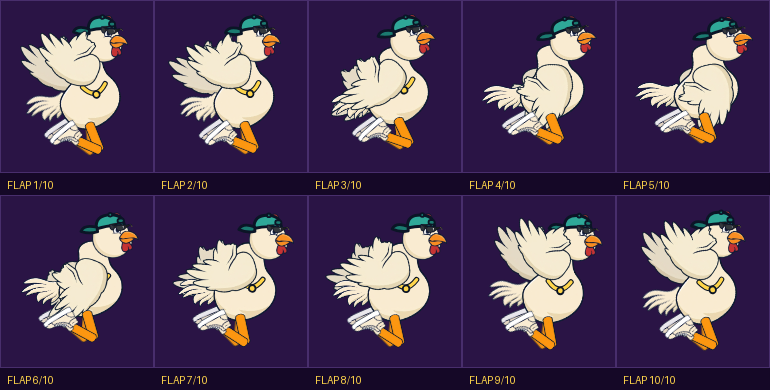
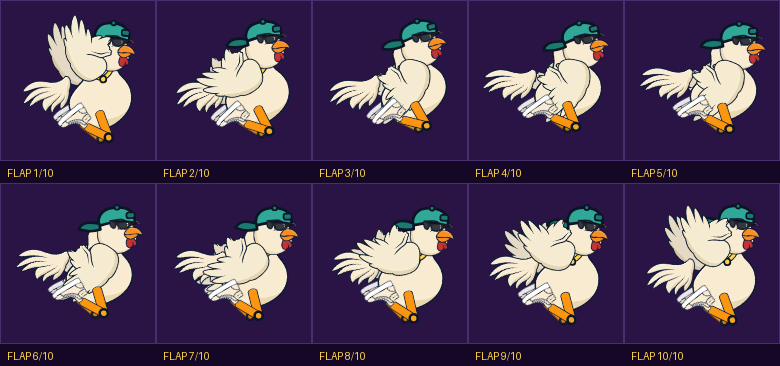
Fit the parts to the rig by measurement instead of by eye
Adds ?align=1, which draws the skeleton underneath in flat magenta with the
painted parts over it at 70% opacity, so a misfit is visible rather than guessed.

That exposed the deeper problem: art was being moved to chase a rig whose numbers
were also invented. So the relationship is inverted - landmarks are measured out
of the part images and the rig is derived from them. The head pivot is now the
art's own skull centre, the wing pivot its shoulder, the tail pivot its root, the
shoe pivot its ankle, and bodyRX/bodyRY are half the body art. Rig and art now
coincide by construction, and hats no longer need a fudge offset.

The wing's natural angle measured -0.445, not the -0.65 that had been eyeballed,
which was skewing every wing pose.

Also: bigger head to match the reference proportions, and knee caps to close the
notch where the two leg tubes meet.

Claude-Session: https://claude.ai/code/session_01GPMrTdwpCZtjDF6U8tWZ25

diff --git a/index.html b/index.html
@@ -418,13 +418,13 @@ function musicVol(v){ if(A.started) A.musicGain.gain.setTargetAtTime(v, A.ctx.cu
    Local space: origin = body core, +x forward, +y down.
    ============================================================ */
 const CK = {
-  bodyRX:52, bodyRY:40,          // fallback shape only; the part carries the real body
-  bodyTilt:-0.13,
-  headX:40, headY:-96, headR:23,
-  wingX:12, wingY:-46, wingA:84, wingB:70,
-  hipX:-10, hipY:30,
+  bodyRX:58, bodyRY:71,          // = half the body art, so rig and art coincide
+  bodyTilt:0,
+  headX:36, headY:-64, headR:32, // headR = the art's own skull radius (w = 2R/0.4108)
+  wingX:10, wingY:-30, wingA:58, wingB:46,
+  hipX:-6,  hipY:40,
   thigh:46, shin:44, ANKLE:14,
-  standH:118
+  standH:126
 };
 const HATS = ['cap_snapback','hat_bucket'];
 
@@ -638,7 +638,7 @@ function springUpdate(dt, ax, ay){
 }
 
 /* ---- drawing ---- */
-const CKC = {
+let CKC = {
   body:'#F7E6CE', shade:'#DCC0A0', wing:'#FCEEDA', edge:'#0B1526',
   comb:'#E8443A', beak:'#F5A623',
   cap:'#2FA898', capDark:'#1B7A70', capBand:'#FFD54A',
@@ -663,6 +663,11 @@ function capsule(x1,y1,x2,y2,w,col){
   ctx.beginPath(); ctx.moveTo(x1,y1); ctx.lineTo(x2,y2);
   ctx.strokeStyle=CKC.edge; ctx.lineWidth=w+8; ctx.stroke();
   ctx.strokeStyle=col;     ctx.lineWidth=w;   ctx.stroke();
+}
+function drawJoint(x,y,r,col,far){
+  ctx.save(); if(far) ctx.globalAlpha=0.9;
+  ctx.beginPath(); ctx.arc(x,y,r,0,TAU); cp(col,4.4);
+  ctx.restore();
 }
 function drawBone(x1,y1,x2,y2,w,col,far){
   if(!partReady('leg')) return capsule(x1,y1,x2,y2,w,col);
@@ -791,7 +796,9 @@ function loadPart(id, src, opt){
   const im = new Image(); im.src = src;
   PARTS[id] = Object.assign({ img:im, w:100, ax:0.5, ay:0.5, rot:0, tint:null }, opt||{});
 }
+let PARTS_ON = true;                      // align mode flips this to draw the rig underneath
 function partReady(id){
+  if(!PARTS_ON) return false;
   const q = PARTS[id];
   return !!(q && q.img.complete && q.img.naturalWidth > 0);
 }
@@ -814,11 +821,11 @@ function drawPart(id, scaleX, scaleY){
   ctx.restore();
   return true;
 }
-loadPart('body','art/part-body.png', {w:104, ax:0.50, ay:0.70, rot:0.10});
-loadPart('head','art/part-head.png', {w:74,  ax:0.42, ay:0.52});
-loadPart('wing','art/part-wing.png', {w:90,  ax:0.78, ay:0.12, rot:-0.65});
-loadPart('tail','art/part-tail.png', {w:70,  ax:0.95, ay:0.45});
-loadPart('shoe','art/part-shoe.png', {w:52,  ax:0.32, ay:0.22});
+loadPart('body','art/part-body.png', {w:116, ax:0.500,  ay:0.500});
+loadPart('head','art/part-head.png', {w:78,   ax:0.4324, ay:0.4607});
+loadPart('wing','art/part-wing.png', {w:90,   ax:0.6240, ay:0.0852, rot:-0.445});
+loadPart('tail','art/part-tail.png', {w:92,   ax:0.9985, ay:0.5761});
+loadPart('shoe','art/part-shoe.png', {w:56,   ax:0.3413, ay:0.020});
 loadPart('leg', 'art/part-leg.png',  {w:17,  ax:0.50, ay:0.00});
 
 /* ---- the head, drawn in the same language as the body ---- */
@@ -884,8 +891,8 @@ function drawHead(p){
     drawPart('head');
     // the painted head has its own skull and eye, so the cosmetics shift onto them
     // measured off the part: skull centre sits at (-2,-8) from the pivot, eye at (+9,-12)
-    ctx.save(); ctx.translate(-2,-8); drawSlot('head', R); ctx.restore();
-    ctx.save(); ctx.translate( 2,-8); drawSlot('face', R); ctx.restore();
+    drawSlot('head', R);                       // pivot = the art's skull centre
+    ctx.save(); ctx.translate(-1,-2); drawSlot('face', R); ctx.restore();
     if(p.shockT>0.02){
       ctx.save(); ctx.globalAlpha=clamp(p.shockT*2,0,1);
       ctx.strokeStyle=CKC.edge; ctx.lineWidth=3; ctx.lineCap='round';
@@ -948,6 +955,7 @@ function drawChicken(x, y, p){
   // far leg
   drawBone(CK.hipX,CK.hipY, CK.hipX+p.kFx,CK.hipY+p.kFy, 9, CKC.legDark, true);
   drawBone(CK.hipX+p.kFx,CK.hipY+p.kFy, CK.hipX+p.fFx,CK.hipY+p.fFy, 8, CKC.legDark, true);
+  drawJoint(CK.hipX+p.kFx, CK.hipY+p.kFy, 6, CKC.legDark, true);
   drawShoePart(CK.hipX+p.kFx,CK.hipY+p.kFy, CK.hipX+p.fFx,CK.hipY+p.fFy, CKC.shoeDark, true);
 
   // far wing
@@ -955,7 +963,7 @@ function drawChicken(x, y, p){
 
   // tail — one swept cream shape that grows out of the body
   ctx.save();
-  ctx.translate(-46, -30);
+  ctx.translate(-46, -26);
   ctx.rotate(p.tail*0.6 + spring.tail*0.18);
   ctx.rotate(-0.34);
   if(drawPart('tail')){ ctx.restore(); } else {
@@ -1016,6 +1024,7 @@ function drawChicken(x, y, p){
   // near leg
   drawBone(CK.hipX,CK.hipY, CK.hipX+p.kNx,CK.hipY+p.kNy, 11, CKC.leg, false);
   drawBone(CK.hipX+p.kNx,CK.hipY+p.kNy, CK.hipX+p.fNx,CK.hipY+p.fNy, 10, CKC.leg, false);
+  drawJoint(CK.hipX+p.kNx, CK.hipY+p.kNy, 7, CKC.leg, false);
   drawShoePart(CK.hipX+p.kNx,CK.hipY+p.kNy, CK.hipX+p.fNx,CK.hipY+p.fNy, CKC.shoe, false);
 
   if(game.rig){                                   // pivot overlay for aligning parts
@@ -1031,7 +1040,7 @@ function drawChicken(x, y, p){
     mark(0,0,'#FF456E','core');
     mark(CK.headX+p.headDX, CK.headY+p.headDY, '#6BD1FF', 'head');
     mark(CK.wingX, CK.wingY, '#FFD54A', 'wing');
-    mark(-46, -30, '#3FE0B0', 'tail');
+    mark(-46, -26, '#3FE0B0', 'tail');
     mark(CK.hipX, CK.hipY, '#F2684F', 'hip');
     mark(CK.hipX+p.fNx, CK.hipY+p.fNy, '#FFF2DE', 'ankle');
   }
@@ -1936,7 +1945,7 @@ function updatePlay(dt){
   if(game.spawnT<=0) spawnPattern();
 
   // ---- obstacles ----
-  const pl = p.x-42, pr = p.x+42, pb = p.y+12, pt = p.y+205;
+  const pl = p.x-44, pr = p.x+44, pb = p.y+12, pt = p.y+212;
   for(let i=game.obstacles.length-1;i>=0;i--){
     const o = game.obstacles[i];
     o.x += (o.vx||0)*dt;
@@ -2369,7 +2378,18 @@ function render(){
     ctx.save(); ctx.scale(SCALE,SCALE);
     const z = game.soloZoom||2.4;
     ctx.translate(VW/2, VH*0.60); ctx.scale(z,z);
-    drawChicken(0, 0, player.pose);
+    if(game.align){
+      // the rig underneath in flat magenta, the painted parts over it
+      const keep = Object.assign({}, CKC);
+      Object.assign(CKC, { body:'#FF2D8F', shade:'#C21E६C'.replace('६','6'), wing:'#FF6FB4',
+        edge:'#5A0B33', comb:'#FF2D8F', beak:'#FF2D8F',
+        leg:'#FF2D8F', legDark:'#C21E6C', shoe:'#FFB3D8', shoeDark:'#E087B4', lace:'#5A0B33' });
+      PARTS_ON = false; drawChicken(0, 0, player.pose);
+      Object.assign(CKC, keep);
+      PARTS_ON = true; ctx.globalAlpha = 0.70;
+      drawChicken(0, 0, player.pose);
+      ctx.globalAlpha = 1;
+    } else drawChicken(0, 0, player.pose);
     ctx.restore(); return;
   }
   ctx.setTransform(DPR,0,0,DPR,0,0);
@@ -2451,6 +2471,7 @@ function boot(){
   if(/[?&]dbg/.test(location.search)) game.dbg = true;
   if(/[?&]stage/.test(location.search)) game.stage = true;
   if(/[?&]rig/.test(location.search)) game.rig = true;
+  if(/[?&]align/.test(location.search)) game.align = true;
   if(/[?&]solo/.test(location.search)){ game.solo = true; document.body.classList.add('solo'); }
   const rmv=/[?&]run=([0-9.]+)/.exec(location.search); if(rmv) game.demoRun=parseFloat(rmv[1]);
   const sz=/[?&]sz=([0-9.]+)/.exec(location.search); if(sz) game.soloZoom=parseFloat(sz[1]);

diff --git a/_CONTINUE-HERE.md b/_CONTINUE-HERE.md
@@ -25,9 +25,27 @@ not draw the character. This is why he looks like the reference — he *is* the
 reference art.
 
 Each part has `w` (width in world units) and `ax`/`ay` (the anchor, as a fraction
-of the image, i.e. the point the pivot holds it by). **Do not eyeball these.**
-Measure the PNG (cream centroid, eyeball centroid) and set the numbers from the
-measurement — guessing cost several rounds.
+of the image, i.e. the point the pivot holds it by).
+
+**How to fit a new part — do it this way, not by eye.**
+
+1. Measure the landmark in the PNG with PIL and express it as a fraction of the
+   image. Set `ax`/`ay` to that fraction, so the pivot *is* the landmark.
+2. Derive the rig number from the art, not the other way round. Current values:
+
+   | part | landmark | drives |
+   |---|---|---|
+   | head | skull centre `0.4324, 0.4607`, radius `0.4108·w` | `headR`, and `w = 2·headR/0.4108` |
+   | wing | shoulder `0.624, 0.0852`, blade `1.16·w` | `wingA+wingB`, `w = (A+B)/1.16` |
+   | tail | root `0.9985, 0.5761` | tail pivot |
+   | shoe | ankle centre `0.3413` | ankle pivot |
+   | body | bbox centre | `bodyRX/bodyRY` = half the art |
+
+3. Check it with **`?align=1`**: draws the rig underneath in flat magenta with the
+   painted parts over it at 70%. Any mismatch is then visible instead of guessed.
+
+Eyeballing these cost several rounds and never converged. Measuring took one.
+Because the head pivot is the skull centre, hats need no fudge offset.
 
 Two traps that already bit:
 - `ctx.rotate(t)` maps `dir(a)` to `dir(a-t)`, **not** `a+t`. The wing part must
